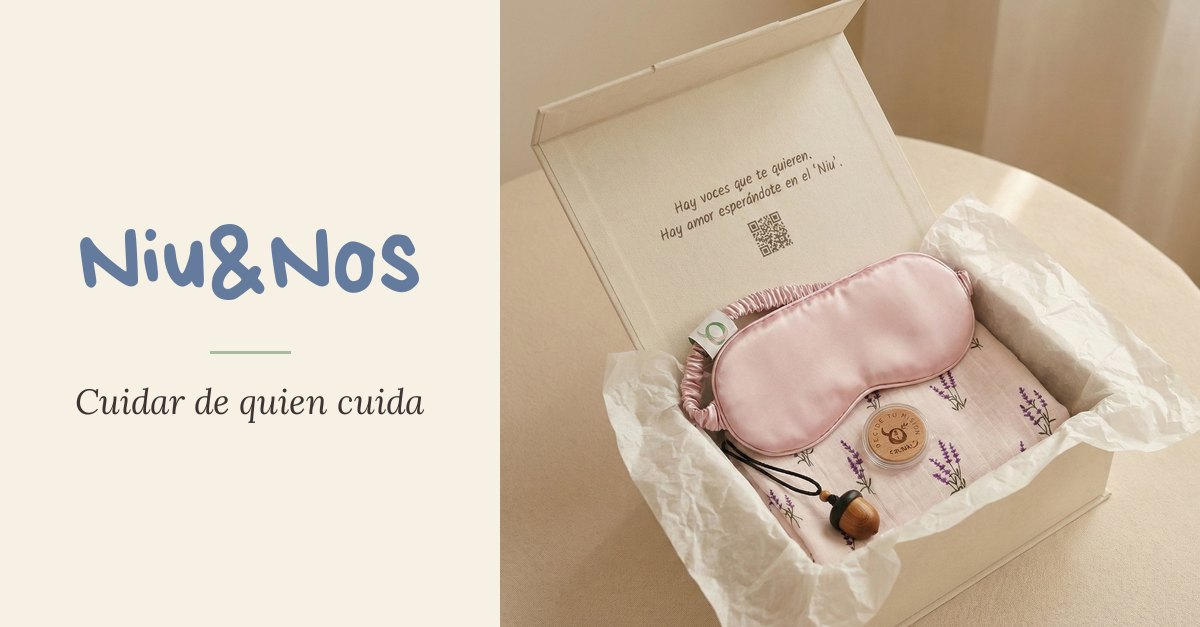
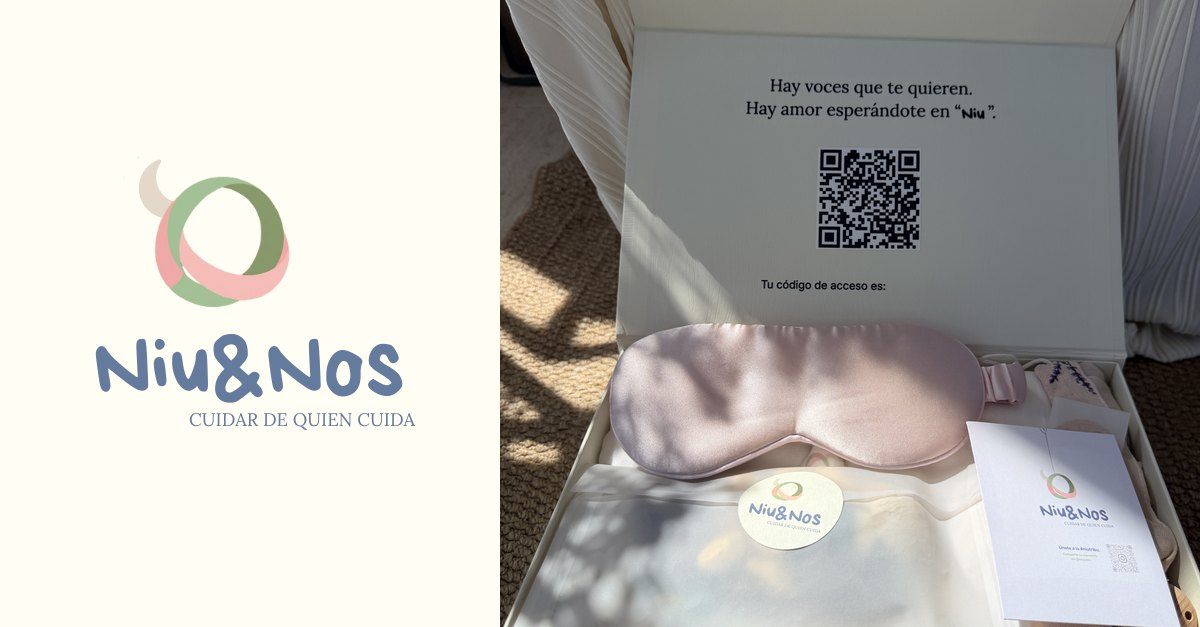
Add files via upload

diff --git a/index.html b/index.html
@@ -13,7 +13,7 @@
 <meta property="og:image" content="https://yueyinggigi.github.io/niuynos-web/preview.jpg">
 <meta property="og:image:width" content="1200">
 <meta property="og:image:height" content="627">
-<meta property="og:image:alt" content="Caja regalo Niu&amp;Nos abierta, con antifaz y muselina de lavanda">
+<meta property="og:image:alt" content="Caja regalo Niu&amp;Nos abierta, con antifaz y el código QR en la tapa">
 <meta name="twitter:card" content="summary_large_image">
 <title>Niu&amp;Nos</title>
 <link rel="preconnect" href="https://fonts.googleapis.com">
